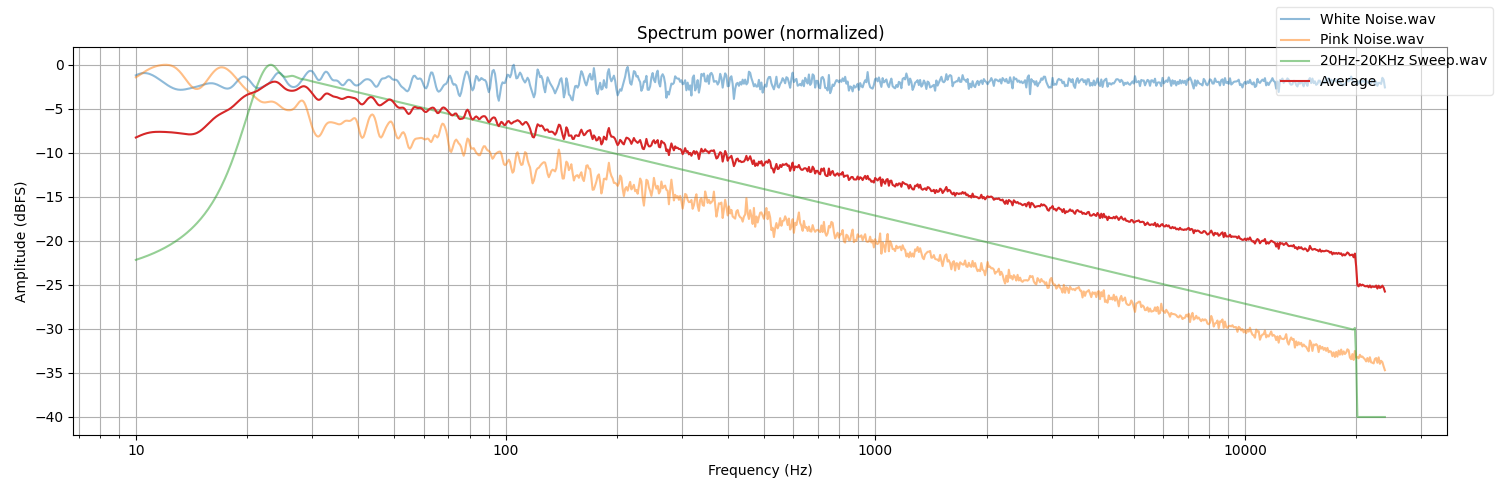
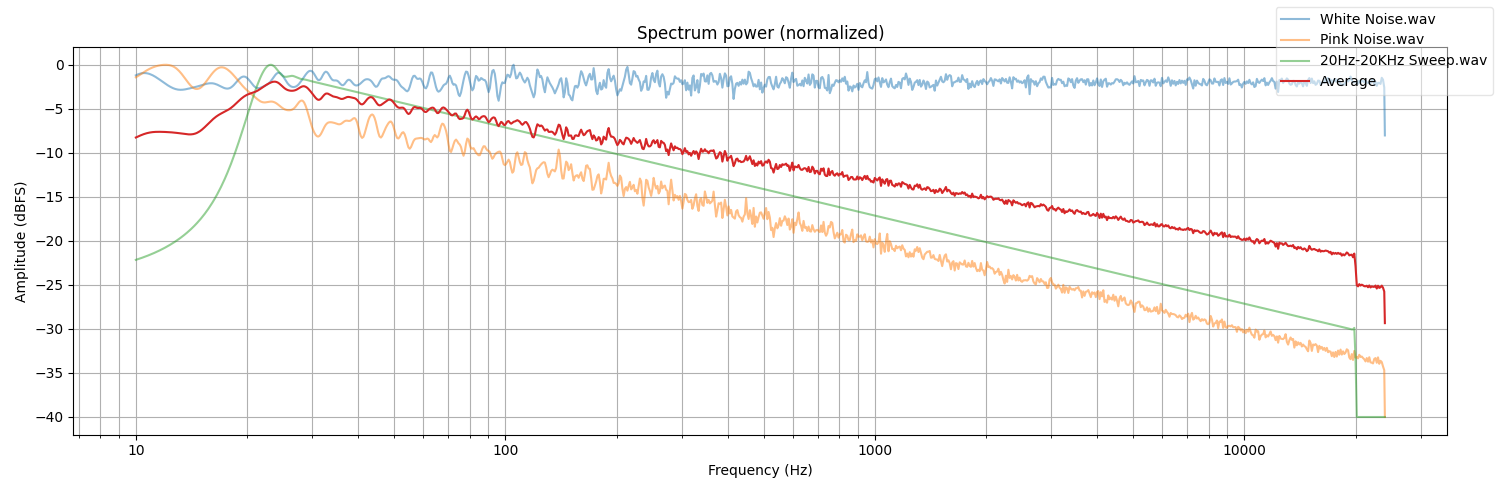
Fix points reducing and enable export by default

diff --git a/main.py b/main.py
@@ -32,10 +32,10 @@ WAV_FILES_PATHS = [
     "samples/White Noise.wav",
     "samples/Pink Noise.wav",
     "samples/20Hz-20KHz Sweep.wav",
-    "samples/100Hz Sine.wav",
-    "samples/440Hz Sine.wav",
-    "samples/1KHz Sine.wav",
-    "samples/5KHz Sine.wav"
+    #"samples/100Hz Sine.wav",
+    #"samples/440Hz Sine.wav",
+    #"samples/1KHz Sine.wav",
+    #"samples/5KHz Sine.wav"
 ]
 
 #  0  - int8 [b / (2^8 / 2)] (aka Signed 8-bit PCM)
@@ -71,7 +71,7 @@ NORMALIZE_DATA = 2
 MIN_FREQUENCY_HZ = 10
 
 # Minimum FFT amplitude on the plot (in dBFS)
-PLOT_MIN_POWER_DBFS = -100
+PLOT_MIN_POWER_DBFS = -40
 
 # Number of points of each plot (higher values -> higher resolution, but the readability of the plot is lower)
 POINTS_N = 1000
@@ -80,8 +80,8 @@ POINTS_N = 1000
 # 0 - Extract average (mean) as calibration profile
 # 1 to N - Extract calibration profile for specific file (in WAV_FILES_PATHS) referenced to average
 # Set EXTRACT_DATA_REDUCED_POINTS to True to reduce number of points to POINTS_N
-EXTRACT_DATA = -1
-EXTRACT_DATA_PATH = "C:\\Users\\F3rni\\Desktop\\Calibration.txt"
+EXTRACT_DATA = 0
+EXTRACT_DATA_PATH = "Calibration.txt"
 EXTRACT_DATA_DELIMITER = "\t"
 EXTRACT_DATA_REDUCED_POINTS = True
 
@@ -332,6 +332,8 @@ def log_decimation(input_data: np.ndarray, num_points: int, index_start=0, filte
                 reduced_data.append(reduced_sample)
             else:
                 reduced_data.append(input_data[start])
+        else:
+            reduced_data.append(input_data[indices[i]])
 
     return np.asarray(reduced_data, dtype=np.float32)
 
